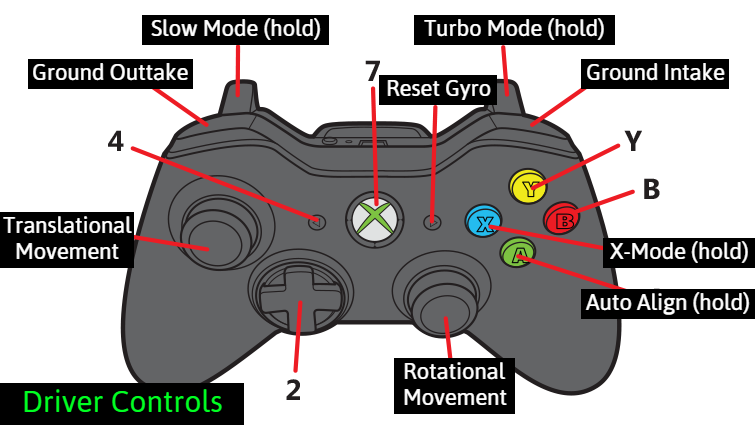
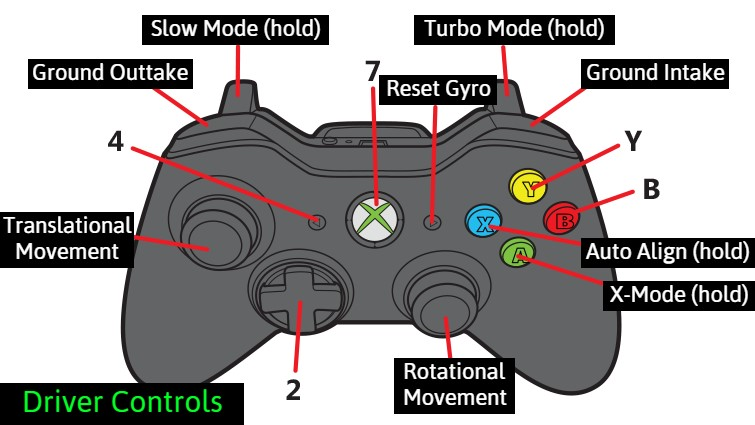
added turbo mode! changed driver controls (switched buttons for auto align and x-mode with request of driver)

diff --git a/src/main/java/org/bitbuckets/OperatorInput.java b/src/main/java/org/bitbuckets/OperatorInput.java
@@ -1,7 +1,6 @@
 package org.bitbuckets;
 
 import edu.wpi.first.math.MathUtil;
-import edu.wpi.first.wpilibj.DriverStation;
 import edu.wpi.first.wpilibj.XboxController;
 import edu.wpi.first.wpilibj2.command.button.CommandXboxController;
 import edu.wpi.first.wpilibj2.command.button.Trigger;
@@ -35,8 +34,8 @@ public class OperatorInput {
 
     final Trigger slowModeHold = driver.leftTrigger();
     final Trigger turboModeHold = driver.rightTrigger();
-    final Trigger autoAlignHold = driver.a();
-    final Trigger xButtonToggle = driver.x();
+    final Trigger autoAlignHold = driver.x();
+    final Trigger xButtonToggle = driver.a();
     final Trigger groundIntakeHold = driver.rightBumper();
     final Trigger groundOuttakeHold = driver.leftBumper();
     final Trigger groundIntakeHoldOp = operatorControl.rightBumper();
@@ -71,7 +70,7 @@ public class OperatorInput {
         return slowModeHold.getAsBoolean();
     }
 
-    public boolean getTurboModeState() {
+    public boolean getTurboModeHeld() {
         return turboModeHold.getAsBoolean();
     }
 

diff --git a/src/main/java/org/bitbuckets/commands/drive/AugmentedDriveCommand.java b/src/main/java/org/bitbuckets/commands/drive/AugmentedDriveCommand.java
@@ -64,10 +64,16 @@ public class AugmentedDriveCommand extends Command {
                         .transformBy(new Transform2d(linearMagnitude, 0.0, new Rotation2d()))
                         .getTranslation();
 
+        double speedMultiplier = 3d;
+        double turboSpeedMultiplier = 4.5;
+        if (operatorInput.getTurboModeHeld())
+        {
+            speedMultiplier = turboSpeedMultiplier;
+        }
         ChassisSpeeds speeds =
                 new ChassisSpeeds(
-                        linearVelocity.getX() * 4.5, //experimentally determined max velocity
-                        linearVelocity.getY() * 4.5,
+                        linearVelocity.getX() * speedMultiplier, //4.5 is the experimentally determined max velocity
+                        linearVelocity.getY() * speedMultiplier,
                         theta * 1 * Math.PI );
 
 

diff --git a/src/main/java/org/bitbuckets/commands/drive/DefaultDriveCommand.java b/src/main/java/org/bitbuckets/commands/drive/DefaultDriveCommand.java
@@ -37,10 +37,16 @@ public class DefaultDriveCommand extends Command {
 
     @Override
     public void execute() {
+        double speedMultiplier = 3d;
+        double turboSpeedMultiplier = 6d;
+        if (operatorInput.getTurboModeHeld())
+        {
+            speedMultiplier = turboSpeedMultiplier;
+        }
         ChassisSpeeds speeds = new ChassisSpeeds(
-                3d*operatorInput.getRobotForwardComponent(),
-                3d*operatorInput.getDriverRightComponent(),
-                3 * operatorInput.getDriverRightStickX()
+                speedMultiplier*operatorInput.getRobotForwardComponent(),
+                speedMultiplier*operatorInput.getDriverRightComponent(),
+                speedMultiplier * operatorInput.getDriverRightStickX()
         );
 
         if (RobotContainer.SWERVE.fieldOriented()) {
